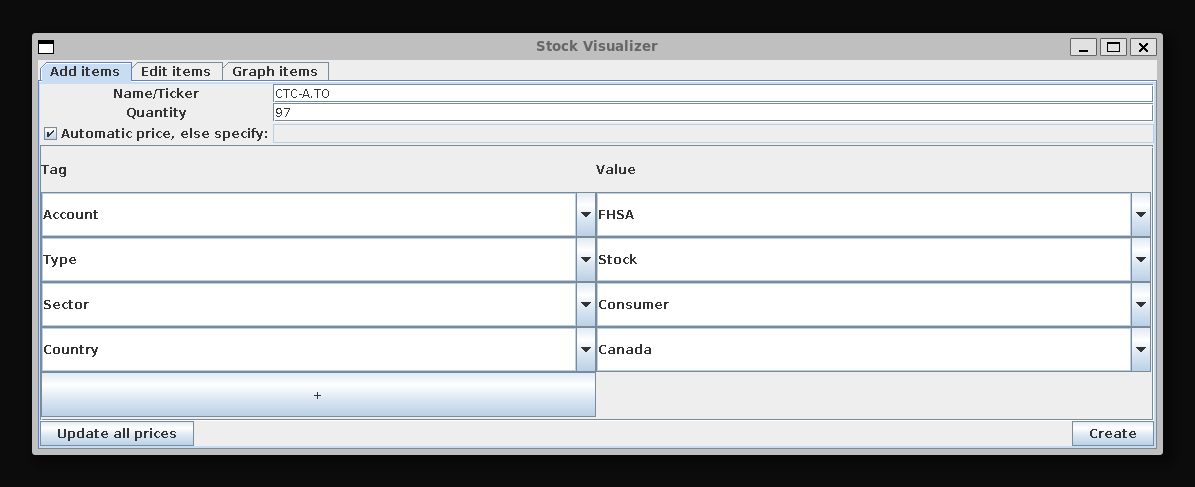
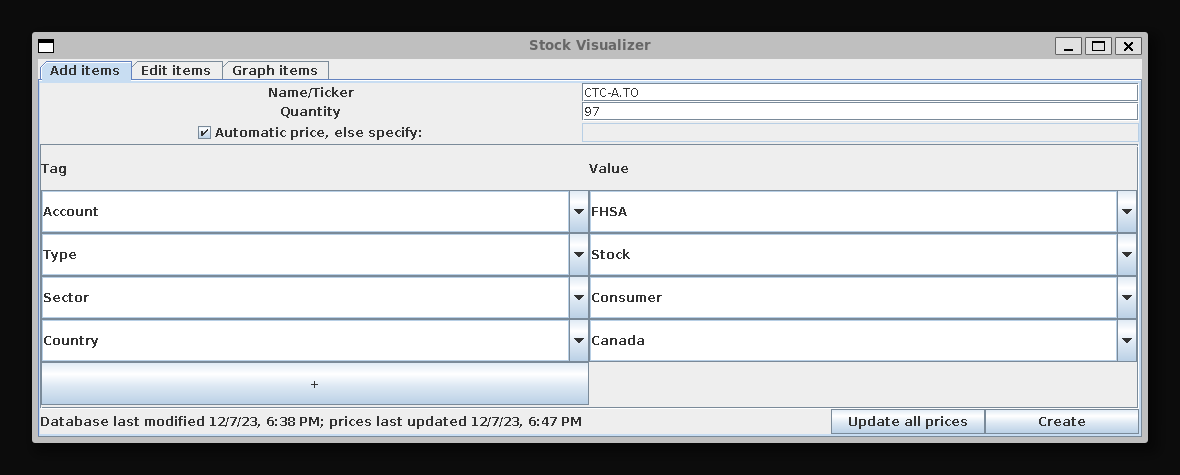
Add date labels

Changed region(s): [[0.0305, 0.0884, 0.9763, 0.9432], [0.8847, 0.0589, 0.9763, 0.1179], [0.4881, 0.0589, 0.5492, 0.1179]]

diff --git a/main/Main.java b/main/Main.java
@@ -2,6 +2,8 @@ package main;
 
 import java.util.*;
 import java.io.*;
+import java.time.*;
+import java.time.format.*;
 import javax.swing.*;
 import java.awt.*;
 import java.awt.event.*;
@@ -13,8 +15,12 @@ public class Main {
     public static ArrayList<Entry> entries = new ArrayList<Entry>();
     private final String saveFname = "prevInfo.txt";
     private TagTracker tagMap = new TagTracker();
+    private final DateTimeFormatter dispTimeFormat = DateTimeFormatter.ofLocalizedDateTime(FormatStyle.SHORT);
+    private LocalDateTime priceTime;
+    private LocalDateTime dbTime;
 
     //UI Stuff
+    private JLabel dateLabel;
     JFrame frame = new JFrame("Stock Visualizer");
     JPanel addPane = new JPanel(new GridBagLayout());
     JPanel editPane = new JPanel(new GridBagLayout());
@@ -63,6 +69,16 @@ public class Main {
     private void readPrev(){
         try(BufferedReader br = new BufferedReader(new FileReader(saveFname))){
             String line;
+            //First two lines are the last price modification and database modification dates
+            try{
+                line = br.readLine();
+                priceTime = LocalDateTime.parse(line);
+                line = br.readLine();
+                dbTime = LocalDateTime.parse(line);
+            } catch (DateTimeParseException e){
+                priceTime = LocalDateTime.now();
+                dbTime = priceTime;
+            }
             //Entries are in the following format:
             //name, quantity, updatePrice, price, [optional tag 1, optional value 1], ...
             while((line = br.readLine()) != null){
@@ -83,14 +99,33 @@ public class Main {
 
     //Writes to the local file to store our entries for next time
     private void writePrev(){
-        try(FileWriter fw = new FileWriter(saveFname)){
+        try(BufferedWriter bw = new BufferedWriter(new FileWriter(saveFname))){
+            bw.write(priceTime.format(DateTimeFormatter.ISO_LOCAL_DATE_TIME));
+            bw.newLine();
+            bw.write(dbTime.format(DateTimeFormatter.ISO_LOCAL_DATE_TIME));
+            bw.newLine();
             for(Entry i : entries){
-                fw.write(i.saveableLine());
+                bw.write(i.saveableLine());
             }
-        } catch (IOException e){
+        } catch (Exception e){
             //Very bad
         }
     };
+
+    private String datesToLabel(){
+        String startString = "Database last modified ";
+        String dbString = "";
+        String middleString = "; prices last updated ";
+        String priceString = "";
+
+        try {
+            dbString = dbTime.format(dispTimeFormat);
+            priceString = priceTime.format(dispTimeFormat);
+        } catch (DateTimeException e){
+            //Use the default empty strings
+        }
+        return startString + dbString + middleString + priceString;
+    }
 
     //This function must deal with the tag manager and the list of tags
     private void removeEntry(Entry entry){
@@ -219,6 +254,10 @@ public class Main {
         tagScrollPaneC.fill = GridBagConstraints.BOTH;
         addPane.add(tagScrollPane, tagScrollPaneC);
 
+        dateLabel = new JLabel(datesToLabel());
+        GridBagConstraints dateLabelC = createGridBagConstraints(0, 1, 7, 1);
+        addPane.add(dateLabel, dateLabelC);
+
         JButton saveButton = new JButton("Create");
         saveButton.addActionListener(e -> {
             //Create/allocate, warn if failure
@@ -278,6 +317,8 @@ public class Main {
                     entries.add(toAdd);
 
                     //Reset fields
+                    dbTime = LocalDateTime.now();
+                    dateLabel.setText(datesToLabel());
                     quantityField.setText("");
                     tickerField.setText("");
                     priceField.setText("");
@@ -301,9 +342,6 @@ public class Main {
 
             JOptionPane.showMessageDialog(frame, msg, (resultPassed ? "Entry creation successful" : "Entry creation unsuccessful"), (resultPassed ? JOptionPane.INFORMATION_MESSAGE : JOptionPane.ERROR_MESSAGE));
         });
-        GridBagConstraints saveButtonC = createGridBagConstraints(1, 1, 7, 1);
-        saveButtonC.anchor = GridBagConstraints.SOUTHEAST;
-        addPane.add(saveButton, saveButtonC);
 
         //Button unique to this tab
         JButton updateButton = new JButton("Update all prices");
@@ -341,10 +379,11 @@ public class Main {
                             }
                             JOptionPane.showMessageDialog(frame, msg, (resultPassed ? "Price update successful" : "Price update unsuccessful"), (resultPassed ? JOptionPane.INFORMATION_MESSAGE : JOptionPane.ERROR_MESSAGE));
                         } catch(Exception ex){
-
                             JOptionPane.showMessageDialog(frame, "Reading progress returned an exception.", "Price update unknown", JOptionPane.ERROR_MESSAGE);
                         }
 
+                        priceTime = LocalDateTime.now();
+                        dateLabel.setText(datesToLabel());
                         drawEditPane();
                         progressDialog.dispose();
                     }
@@ -355,9 +394,15 @@ public class Main {
             progressDialog.pack();
             progressDialog.setVisible(true);
         });
-        GridBagConstraints updateButtonC = createGridBagConstraints(0, 1, 7, 1);
-        updateButtonC.anchor = GridBagConstraints.SOUTHWEST;
-        addPane.add(updateButton, updateButtonC);
+        
+        //Panel for the create/update buttons
+        JPanel buttonPanel = new JPanel(new GridLayout(0, 2));
+        buttonPanel.add(updateButton);
+        buttonPanel.add(saveButton);
+
+        GridBagConstraints buttonPanelC = createGridBagConstraints(1, 1, 7, 1);
+        buttonPanelC.anchor = GridBagConstraints.SOUTHEAST;
+        addPane.add(buttonPanel, buttonPanelC);
     }
 
     //Searches through the entries to find the ones satisfying the criteria
@@ -566,6 +611,8 @@ public class Main {
             JButton deleteButton = new JButton("Remove");
             deleteButton.addActionListener(e -> {
                 removeEntry(entryToModify);
+                dbTime = LocalDateTime.now();
+                dateLabel.setText(datesToLabel());
                 drawGraphPane();
                 drawEditPane();
             });
@@ -758,6 +805,8 @@ public class Main {
 
                                 entries.add(toAdd);
                                 editFrame.dispose();
+                                dbTime = LocalDateTime.now();
+                                dateLabel.setText(datesToLabel());
                                 drawEditPane();
                                 drawGraphPane();
                             }
